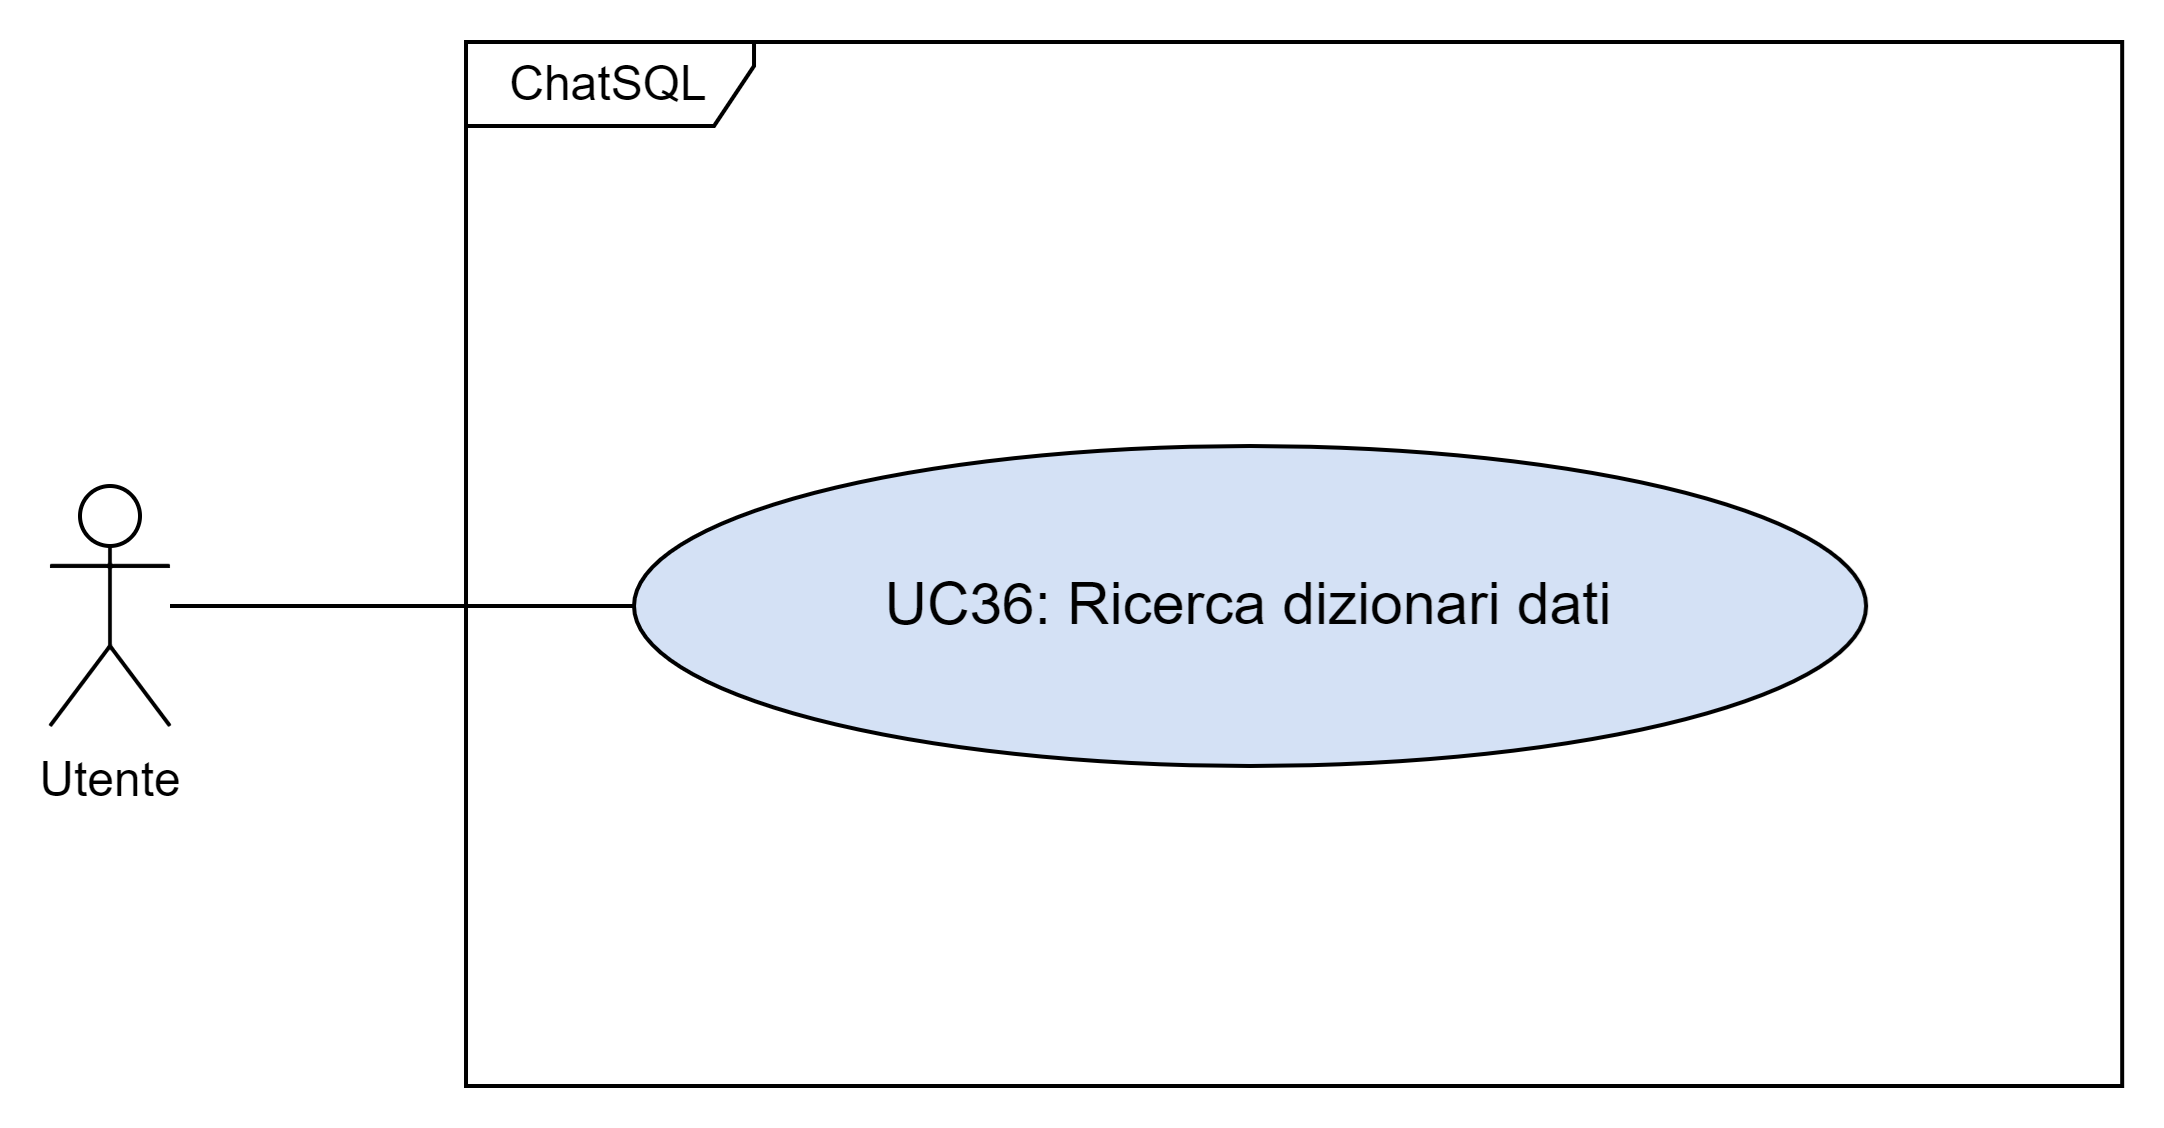
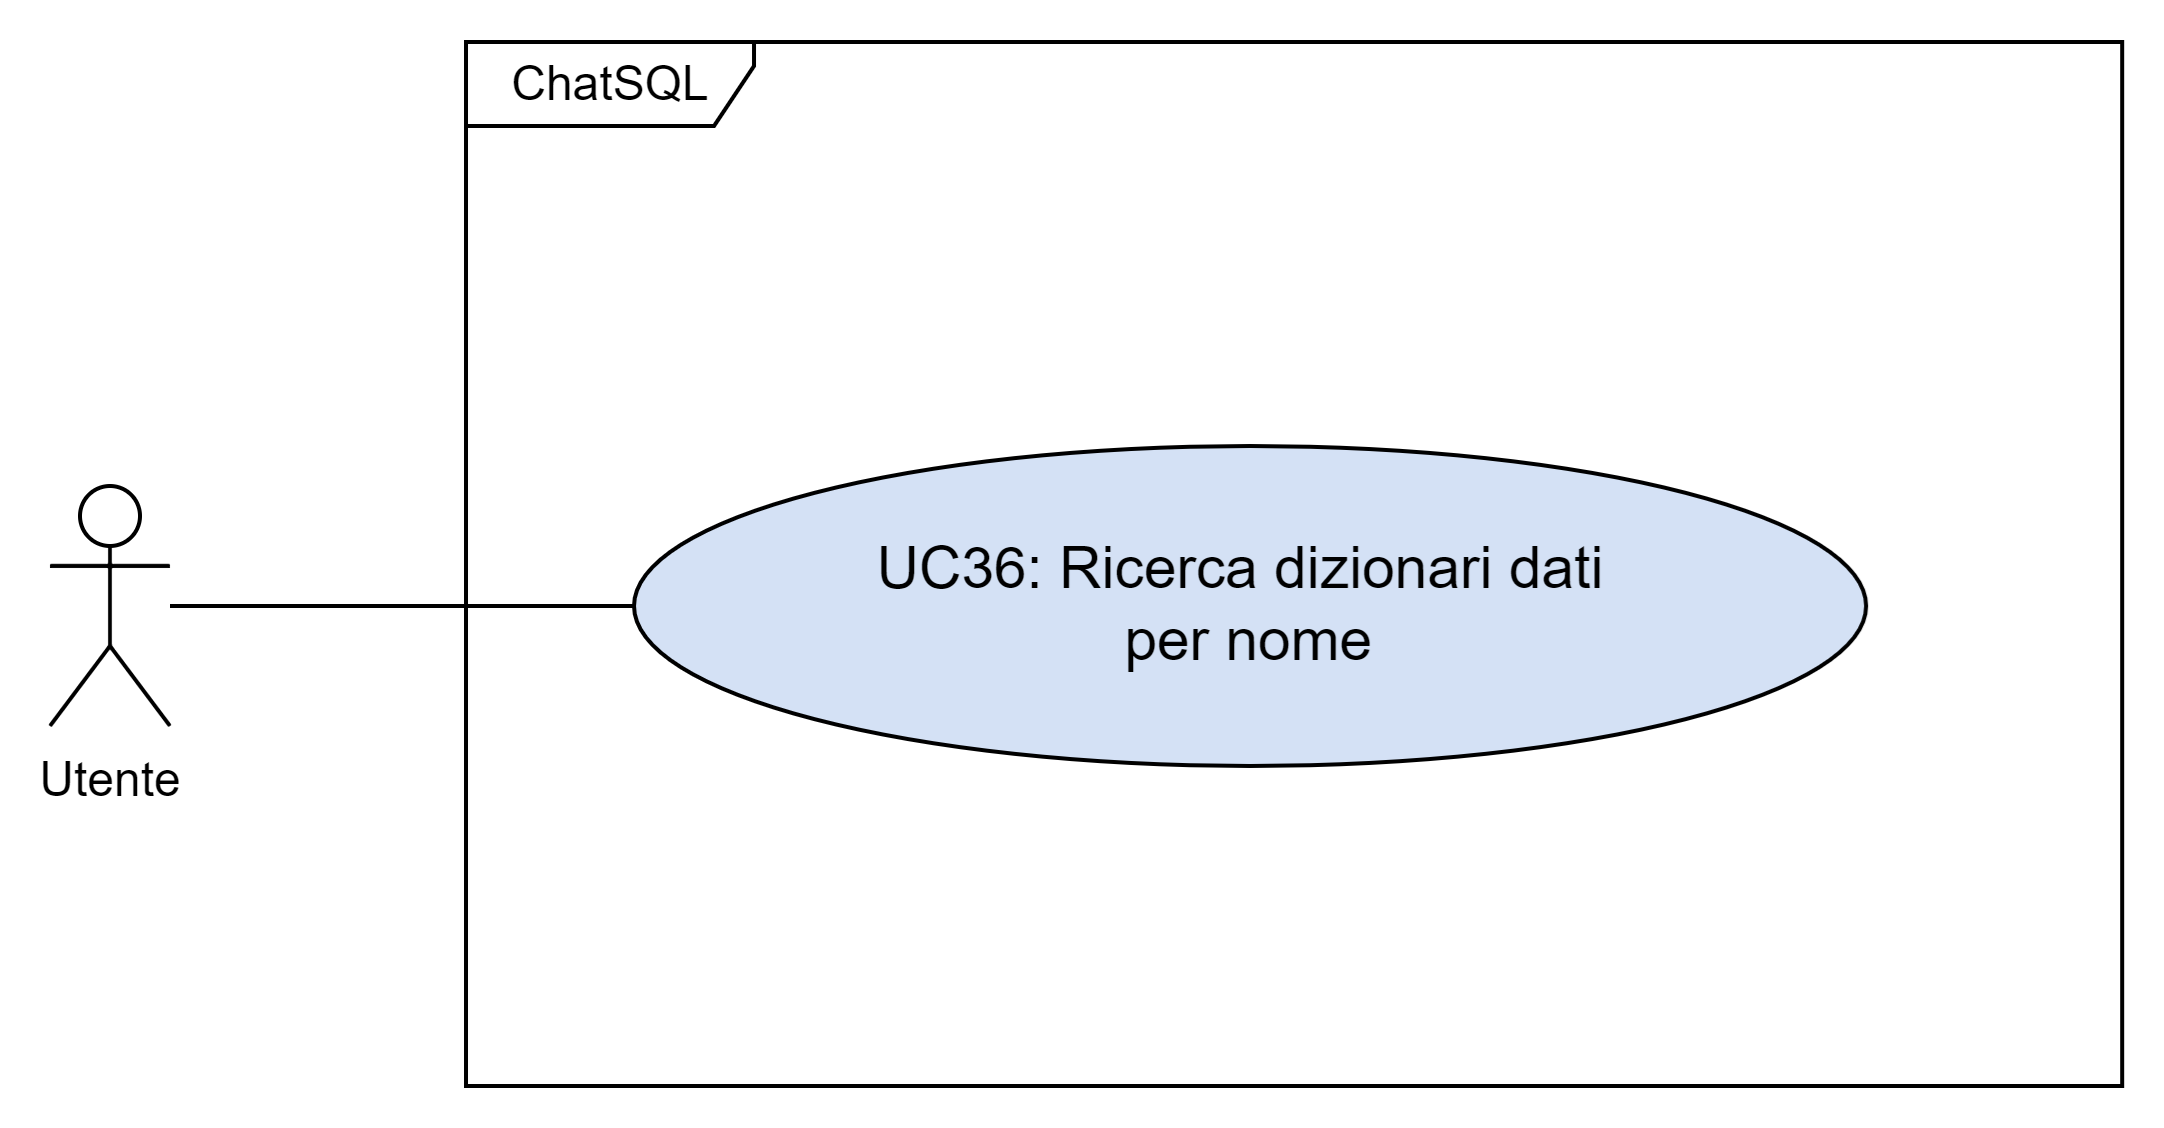
revisione requisiti

Changed region(s): [[0.4025, 0.4654, 0.7431, 0.5895], [0.2477, 0.0621, 0.3406, 0.0931]]

diff --git a/sources/documents/3_PB/AnalisiDeiRequisiti/requisiti.tex b/sources/documents/3_PB/AnalisiDeiRequisiti/requisiti.tex
@@ -59,7 +59,7 @@
     \hline
     \textbf{RF.O.6} & L'Utente deve visualizzare un avviso in caso venga formulata una richiesta non idonea. & \hyperref[UC6]{UC6}\\
     \hline
-    \textbf{RF.D.7} & L'Utente deve poter scegliere la lingua con cui effettuare una richiesta al ChatBOT. & \hyperref[UC7]{UC7}, Verbale esterno 2024-04-09\\
+    \textbf{RF.OP.7} & L'Utente deve poter scegliere la lingua con cui effettuare una richiesta al ChatBOT. & \hyperref[UC7]{UC7}, Verbale esterno 2024-04-09\\
     \hline
     \textbf{RF.O.8} & L'Utente deve poter copiare il contenuto del \glossario{prompt} generato. Il prompt può essere fornito in input a un \glossario{LLM} per convertire la frase dell'Utente in una query \glossario{SQL}. & \hyperref[UC8]{UC8}, Capitolato\\
     \hline
@@ -75,9 +75,9 @@
     \hline
     \textbf{RF.O.10.3} & L'Utente deve poter visualizzare la descrizione di un dizionario dati. & \hyperref[UC10point3]{UC10.3}\\
     \hline
-    \textbf{RF.O.10.4} & L'Utente deve poter visualizzare la dimensione del file scelto come dizionario dati. & \hyperref[UC10point4]{UC10.4}\\
+    \textbf{RF.D.10.4} & L'Utente deve poter visualizzare la dimensione del file scelto come dizionario dati. & \hyperref[UC10point4]{UC10.4}\\
     \hline
-    \textbf{RF.O.10.5} & L'Utente deve poter visualizzare la data di ultimo aggiornamento di un dizionario dati. & \hyperref[UC10point5]{UC10.5}\\
+    \textbf{RF.OP.10.5} & L'Utente deve poter visualizzare la data di ultimo aggiornamento di un dizionario dati. & \hyperref[UC10point5]{UC10.5}\\
     \hline
     \textbf{RF.O.11} & L'Utente deve visualizzare un messaggio esplicativo nel caso in cui si verifichi un errore durante la generazione del \glossario{prompt}. & \hyperref[UC11]{UC11}\\
     \hline
@@ -113,11 +113,11 @@
     \hline
     \textbf{RF.O.21} & Il Tecnico deve visualizzare un errore se l'eliminazione di un dizionario dati fallisce. & \hyperref[21]{UC21}\\
     \hline
-    \textbf{RF.O.22} & Il Tecnico deve poter visualizzare un messaggio di \glossario{debug}. Il debug illustra il processo di generazione del prompt. & \hyperref[22]{UC22}, Verbale esterno 2024-04-09 \\
+    \textbf{RF.D.22} & Il Tecnico deve poter visualizzare un messaggio di \glossario{debug}. Il debug illustra il processo di generazione del prompt. & \hyperref[22]{UC22}, Verbale esterno 2024-04-09 \\
     \hline
-    \textbf{RF.O.23} & Il Tecnico deve poter scaricare un file di \glossario{log}. & \hyperref[23]{UC23}, Verbale interno\\
+    \textbf{RF.D.23} & Il Tecnico deve poter scaricare un file di \glossario{log}. & \hyperref[23]{UC23}, Verbale interno\\
     \hline
-    \textbf{RF.O.24} & Il Tecnico deve visualizzare un errore nel caso in cui il download del file non vada a buon fine. &  \hyperref[UC24]{UC24}\\
+    \textbf{RF.D.24} & Il Tecnico deve visualizzare un errore nel caso in cui il download del file non vada a buon fine. &  \hyperref[UC24]{UC24}\\
     \hline
     \textbf{RF.O.25} & L'Utente deve poter visualizzare il contenuto della chat. &  \hyperref[UC25]{UC25}\\
     \hline
@@ -151,11 +151,11 @@
     \hline
     \textbf{RF.O.35} & L'Utente deve poter visualizzare il contenuto del \glossario{prompt} generato. & \hyperref[UC35]{UC35}, Capitolato \\
     \hline
-    \textbf{RF.O.36} & L'Utente deve poter effettuare una ricerca tra i \glossario{dizionari dati} caricati nel sistema. & \hyperref[UC36]{UC36}, Verbale interno \\
+    \textbf{RF.OP.36} & L'Utente deve poter effettuare una ricerca per nome tra i \glossario{dizionari dati} caricati nel sistema. & \hyperref[UC36]{UC36}, Verbale interno \\
     \hline
-    \textbf{RF.O.37} & Il Tecnico deve poter scaricare il file relativo a un dizionario dati. & \hyperref[UC37]{UC37} \\
+    \textbf{RF.OP.37} & L'Utente deve poter effettuare una ricerca per descrizione tra i dizionari dati caricati nel sistema. & \hyperref[UC37]{UC37}, Verbale interno \\
     \hline
-    \textbf{RF.O.38} & Il Tecnico deve poter copiare il contenuto del messaggio di \glossario{debug}.  & \hyperref[UC38]{UC38} \\
+    \textbf{RF.O.38} & Il Tecnico deve poter scaricare il file relativo a un dizionario dati. & \hyperref[UC38]{UC38} \\
     \hline
     \textbf{RF.O.39} & Il sistema deve memorizzare i dizionari caricati dal Tecnico. & Capitolato \\
     \hline
@@ -171,7 +171,7 @@
     \hline
     \textbf{RF.O.45} & Il prompt deve contenere almeno le descrizioni in linguaggio naturale delle tabelle e delle colonne. & Verbale esterno 2024-06-07\\
     \hline
-    \textbf{RF.O.46} & Quando il Tecnico richiede un prompt, il sistema elabora in automatico un \glossario{log} che ne illustra il processo di generazione. & Verbale esterno 2024-04-09 \\
+    \textbf{RF.D.46} & Quando il Tecnico richiede un prompt, il sistema elabora in automatico un \glossario{log} che ne illustra il processo di generazione. & Verbale esterno 2024-04-09 \\
     \hline
     \textbf{RF.O.47} & Il sistema di generazione del prompt deve supportare richieste in lingua inglese. & Verbale interno \\
     \hline
@@ -183,7 +183,7 @@
     \hline
     \textbf{RF.O.51} & La scelta del DBMS deve essere disponibile nella pagina di generazione del prompt. & Verbale interno \\
     \hline
-    \textbf{RF.D.52} & Il sistema di generazione del prompt deve supportare richieste in lingue diverse dall'inglese. & Verbale esterno 2024-04-09 \\
+    \textbf{RF.OP.52} & Il sistema di generazione del prompt deve supportare richieste in lingue diverse dall'inglese. & Verbale esterno 2024-04-09 \\
     \hline
     \textbf{RF.OP.53} & Quando l'Utente ripete più volte lo stesso messaggio, il ChatBOT restituisce la risposta formulata alla prima occorrenza del messaggio. & Verbale interno \\
     \hline
@@ -311,7 +311,7 @@
     \hline
     \textbf{RV.D.15} & L'applicazione deve essere sviluppata, testata e distribuita mediante \glossario{Docker}. & Verbale interno \\
     \hline
-    \textbf{RV.OP.16} & I colori di primo piano e di sfondo devono avere un rapporto di contrasto di almeno 4.5:1 per testo di dimensioni "normali", e almeno 3:1 per testo grande (linee guida WCAG 2.1, livello di conformità AA). & Verbale interno \\
+    \textbf{RV.D.16} & I colori di primo piano e di sfondo devono avere un rapporto di contrasto di almeno 4.5:1 per testo di dimensioni "normali", e almeno 3:1 per testo grande (linee guida WCAG 2.1, livello di conformità AA). & Verbale interno \\
   \end{longtable}
 \end{adjustwidth}
 \egroup
@@ -557,13 +557,13 @@ Di seguito sono illustrate le corrispondenze fonte - requisito, raggruppate per 
     \hline
 		\textbf{Requisito} & \textbf{Obbligatorio} & \textbf{Desiderabile} & \textbf{Opzionale} & \textbf{Totale} \\ 
     \hline
-    Funzionale & 70 & 4 & 7 & 81 \\
+    Funzionale & 62 & 7 & 12 & 81 \\
     \hline
     Di qualità & 5 & 2 & 0 & 7 \\
     \hline 
-    Di vincolo & 13 & 2 & 1 & 16 \\
+    Di vincolo & 13 & 3 & 0 & 16 \\
     \hline
-    \textbf{Totale} & 88 & 8 & 8 & \textbf{104} \\ 
+    \textbf{Totale} & 80 & 12 & 12 & \textbf{104} \\ 
     \hline
   \end{tabular}
   \caption{Tabella di riepilogo dei requisiti}

diff --git a/sources/documents/3_PB/AnalisiDeiRequisiti/usecase/uc38.tex b/sources/documents/3_PB/AnalisiDeiRequisiti/usecase/uc38.tex
@@ -1,7 +1,13 @@
-\subsubsection{UC38 - Copia del messaggio di debug}\label{UC38}
+\subsubsection{UC38 - Download dizionario dati}\label{UC38}
+
+\begin{figure}[H]
+  \centering
+  \includegraphics[width=0.95\textwidth]{assets/uc38.png}
+  \caption{UC38}
+\end{figure}
 
 \paragraph*{Descrizione}
-Il sistema permette al Tecnico di copiare un messaggio di \glossario{debug} negli appunti di sistema.
+Il sistema consente al Tecnico di scaricare il file relativo a un \glossario{dizionario dati}.
 
 \paragraph*{Attori principali}
 Tecnico
@@ -10,20 +16,34 @@ Tecnico
 \begin{itemize}
   \item Il sistema è attivo e funzionante;
   \item Il Tecnico ha effettuato l'autenticazione (\hyperref[UC1]{UC1});
-  \item Il sistema ha generato almeno un \glossario{prompt} e il rispettivo \glossario{log}.
+  \item Il Tecnico ha visualizzato la lista dei \glossario{dizionari dati} (\hyperref[UC9]{UC9});
+  \item Il Tecnico ha individuato il dizionario da scaricare (\hyperref[UC9.1]{UC9.1}).
 \end{itemize}
 
 \paragraph*{Postcondizioni}
 \begin{itemize}
-  \item Il contenuto del messaggio viene copiato negli appunti di sistema del Tecnico.
+  \item Il file è stato scaricato correttamente.
 \end{itemize}
 
 \paragraph*{Trigger}
-Il Tecnico desidera copiare il messaggio fornito dal sistema in relazione al \glossario{debug} del prompt.
+Il Tecnico vuole scaricare un \glossario{dizionario dati}.
 
 \paragraph*{Scenario principale}
 \begin{enumerate}
-  \item Il Tecnico accede alla sezione dedicata al debug del \glossario{prompt};
-  \item Il Tecnico seleziona la funzionalità "Copia";
-  \item Negli appunti di sistema viene salvata una copia del messaggio.
+  \item Il Tecnico richiede il download di un \glossario{dizionario dati};
+  \item Il sistema esegue il download del file.
 \end{enumerate}
+
+\paragraph*{Scenario alternativo}
+\begin{enumerate}
+  \item Il sistema riscontra un errore durante il download del file (\hyperref[UC24]{UC24});
+  \item Viene visualizzato un messaggio con i dettagli dell'errore.
+\end{enumerate}
+
+\paragraph*{Estensioni}
+\begin{itemize}
+  \item Visualizzazione errore download file (\hyperref[UC24]{UC24}):
+  \begin{itemize}
+    \item Extension point: Errore durante il download del file.
+  \end{itemize}
+\end{itemize}

diff --git a/sources/documents/3_PB/AnalisiDeiRequisiti/usecase/uc37.tex b/sources/documents/3_PB/AnalisiDeiRequisiti/usecase/uc37.tex
@@ -1,49 +1,33 @@
-\subsubsection{UC37 - Download dizionario dati}\label{UC37}
+\subsubsection{UC37 - Ricerca dizionari dati per descrizione}\label{UC37}
 
 \begin{figure}[H]
   \centering
-  \includegraphics[width=0.95\textwidth]{assets/uc37.png}
+  \includegraphics[width=0.90\textwidth]{assets/uc37.png}
   \caption{UC37}
 \end{figure}
 
 \paragraph*{Descrizione}
-Il sistema consente al Tecnico di scaricare il file relativo a un \glossario{dizionario dati}.
+L'Utente effettua una ricerca per descrizione tra i \glossario{dizionari dati} presenti nel sistema.
 
 \paragraph*{Attori principali}
-Tecnico
+Utente
 
 \paragraph*{Precondizioni}
 \begin{itemize}
   \item Il sistema è attivo e funzionante;
-  \item Il Tecnico ha effettuato l'autenticazione (\hyperref[UC1]{UC1});
-  \item Il Tecnico ha visualizzato la lista dei \glossario{dizionari dati} (\hyperref[UC9]{UC9});
-  \item Il Tecnico ha individuato il dizionario da scaricare (\hyperref[UC9.1]{UC9.1}).
+  \item L'Utente sta visualizzando la lista dei \glossario{dizionari dati} disponibili (\hyperref[UC9]{UC9}).
 \end{itemize}
 
 \paragraph*{Postcondizioni}
 \begin{itemize}
-  \item Il file è stato scaricato correttamente.
+  \item Vengono visualizzati i risultati della ricerca.
 \end{itemize}
 
 \paragraph*{Trigger}
-Il Tecnico vuole scaricare un \glossario{dizionario dati}.
+L'Utente vuole filtrare i \glossario{dizionari dati} per descrizione.
 
 \paragraph*{Scenario principale}
 \begin{enumerate}
-  \item Il Tecnico richiede il download di un \glossario{dizionario dati};
-  \item Il sistema esegue il download del file.
+  \item L'Utente richiede al sistema di eseguire una ricerca per descrizione tra i \glossario{dizionari dati};
+  \item Il sistema mostra i risultati della ricerca.
 \end{enumerate}
-
-\paragraph*{Scenario alternativo}
-\begin{enumerate}
-  \item Il sistema riscontra un errore durante il download del file (\hyperref[UC24]{UC24});
-  \item Viene visualizzato un messaggio con i dettagli dell'errore.
-\end{enumerate}
-
-\paragraph*{Estensioni}
-\begin{itemize}
-  \item Visualizzazione errore download file (\hyperref[UC24]{UC24}):
-  \begin{itemize}
-    \item Extension point: Errore durante il download del file.
-  \end{itemize}
-\end{itemize}

diff --git a/sources/documents/3_PB/AnalisiDeiRequisiti/usecase/uc36.tex b/sources/documents/3_PB/AnalisiDeiRequisiti/usecase/uc36.tex
@@ -1,4 +1,4 @@
-\subsubsection{UC36 - Ricerca dizionari dati}\label{UC36}
+\subsubsection{UC36 - Ricerca dizionari dati per nome}\label{UC36}
 
 \begin{figure}[H]
   \centering
@@ -7,7 +7,7 @@
 \end{figure}
 
 \paragraph*{Descrizione}
-L'Utente effettua una ricerca, per nome e per descrizione, tra i \glossario{dizionari dati} presenti nel sistema.
+L'Utente effettua una ricerca per nome tra i \glossario{dizionari dati} presenti nel sistema.
 
 \paragraph*{Attori principali}
 Utente
@@ -24,10 +24,10 @@ Utente
 \end{itemize}
 
 \paragraph*{Trigger}
-L'Utente vuole cercare un \glossario{dizionario dati}.
+L'Utente vuole filtrare i \glossario{dizionari dati} per nome.
 
 \paragraph*{Scenario principale}
 \begin{enumerate}
-  \item L'Utente richiede al sistema di eseguire una ricerca tra i \glossario{dizionari dati};
+  \item L'Utente richiede al sistema di eseguire una ricerca per nome tra i \glossario{dizionari dati};
   \item Il sistema mostra i risultati della ricerca.
 \end{enumerate}

diff --git a/sources/documents/3_PB/AnalisiDeiRequisiti/usecase/uc32.tex b/sources/documents/3_PB/AnalisiDeiRequisiti/usecase/uc32.tex
@@ -19,6 +19,6 @@ Tecnico
 
 \paragraph*{Scenario principale}
 \begin{enumerate}
-  \item Il sistema riscontra un errore nella validazione del formato della descrizione;
+  \item Il sistema riscontra un errore nella validazione della descrizione;
   \item Il sistema restituisce un messaggio con i dettagli dell'errore.  
 \end{enumerate}
